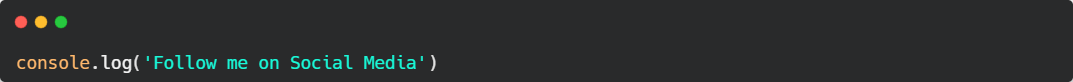
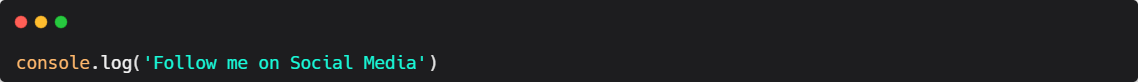
fix(socialUser): configurando componente do github e estiluzando para desktop

Changed region(s): [[0.0, 0.6585, 0.4306, 0.9024], [0.0, 0.1951, 0.0615, 0.3415]]

diff --git a/src/components/lateral/index.tsx b/src/components/lateral/index.tsx
@@ -1,15 +1,14 @@
 import { NavElements } from './style'
-
 import { FiGithub, FiLinkedin, FiGitlab, FaInstagram } from '../../utils/icons'
 
-const SocialIconsComponent = ()=>{
-    const sizeIcons = 25; 
+const SocialIconsComponent = ({ theme }: any)=>{
+    const sizeIcons = theme.icon? theme.icon : 25
     return (
-        <NavElements>
-            <a href='https://github.com/quintansc' target="_blank" rel="noreferrer" data-testid="lateralElements"><FiGithub size={sizeIcons} color={'#999ED7'}/></a>
-            <a href='https://gitlab.com/QuintansC' target="_blank" rel="noreferrer" data-testid="lateralElements"><FiGitlab size={sizeIcons} color={'#999ED7'}/></a>
-            <a href='https://www.instagram.com/quintansdev/' target="_blank" rel="noreferrer" data-testid="lateralElements"><FaInstagram size={sizeIcons} color={'#999ED7'}/></a>
-            <a href='https://www.linkedin.com/in/gustavo-quintans-59206242/' target="_blank" rel="noreferrer" data-testid="lateralElements"><FiLinkedin size={sizeIcons} color={'#999ED7'}/></a>
+        <NavElements theme={theme}>
+            <a href='https://github.com/quintansc' target="_blank" rel="noreferrer" data-testid="lateralElements"><FiGithub size={sizeIcons} color={theme.color}/></a>
+            <a href='https://gitlab.com/QuintansC' target="_blank" rel="noreferrer" data-testid="lateralElements"><FiGitlab size={sizeIcons}  color={theme.color}/></a>
+            <a href='https://www.instagram.com/quintansdev/' target="_blank" rel="noreferrer" data-testid="lateralElements"><FaInstagram size={sizeIcons} color={theme.color}/></a>
+            <a href='https://www.linkedin.com/in/gustavo-quintans-59206242/' target="_blank" rel="noreferrer" data-testid="lateralElements"><FiLinkedin size={sizeIcons}  color={theme.color}/></a>
         </NavElements>
     )
 }

diff --git a/src/components/lateral/style.ts b/src/components/lateral/style.ts
@@ -2,7 +2,9 @@ import styled from 'styled-components';
 
 const NavElements = styled.nav`
     display: flex;
-    justify-content: space-around;
+    justify-content: ${props => props.theme.justify ? props.theme.justify : 'space-between'};
+    margin-left: ${props => props.theme.justify ? '20px' : '0'};
+
     @media (max-width: 600px){
         margin-left: -20px;
         padding: 10px;
@@ -10,10 +12,17 @@ const NavElements = styled.nav`
     }
 
     a{
-        background-color: #18181A;
-        box-shadow: 2px 2px 2px 1px #1D1D1F;
+        background-color: ${props => props.theme.backgroundColor};
+        box-shadow: 2px 2px 2px 1px ${props => props.theme.backgroundColor};
         padding: 8px;
         border-radius: 8px;
+
+        height: ${props => props.theme.size};
+        width: ${props => props.theme.size};
+        display: flex;
+        justify-content: center;
+        align-items: center;
+
     }
 `
 

diff --git a/src/components/userComponent/index.tsx b/src/components/userComponent/index.tsx
@@ -30,10 +30,10 @@ const UserComponent = ({user, teste}: any)=>{
             </div>
 
             <div style={{ display: 'flex', flexDirection: 'row', alignItems: 'center', justifyContent: 'center'}}>
-                <Grid item xs={10} style={{ marginTop: '10px', zIndex: '0'}}>
-                    <img src="/code.png" alt=""></img>
+                <Grid item xs={9} style={{ marginTop: '10px', zIndex: '0'}}>
+                    <img src="/code1.png" alt="" height='70px'></img>
                 </Grid>
-                 <Grid item={true} xs={2}><SocialIconsComponent /></Grid> <br></br>
+                 <Grid item={true} xs={3}><SocialIconsComponent theme={{ backgroundColor: "#1D1D1F", color: "#DAD9DE", size: "67px", justify: 'space-between', icon: 29}} /></Grid> <br></br>
             </div>
         </div>
     )

diff --git a/src/components/footer/desktop/index.tsx b/src/components/footer/desktop/index.tsx
@@ -10,7 +10,7 @@ const DesktopFooter = () => {
       <Container maxWidth={false}>
         <Grid container spacing={4} margin={"0 0 0 -30px"} style={{ justifyContent: "center"}} padding={"20px"}>
           <Grid item={true} xs={9.5} style={{ alignItems: 'center', display: 'flex'}}><strong>Quintec</strong></Grid>
-          <Grid item={true} xs={2}><SocialIconsComponent /></Grid> <br></br>
+          <Grid item={true} xs={2}><SocialIconsComponent theme={{ backgroundColor: '#1D1D1F', color: '#999ED7'}} /></Grid> <br></br>
           <Grid item={true} xs={12}><br/></Grid>
           <Grid item={true} xs={8} style={{ paddingTop: "0px"}}><strong>All Rights Reserved to Gustavo Quintans - 2023.</strong></Grid>
           <GridNormal container>